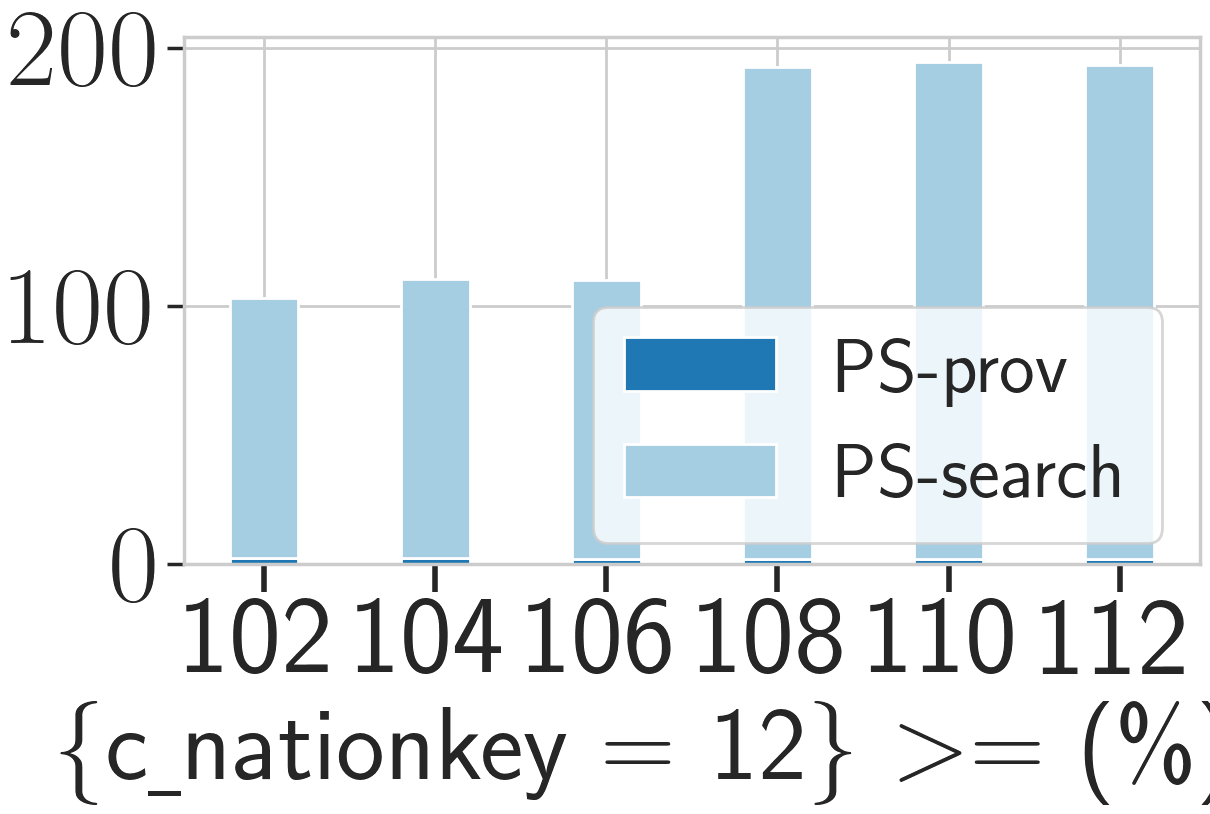
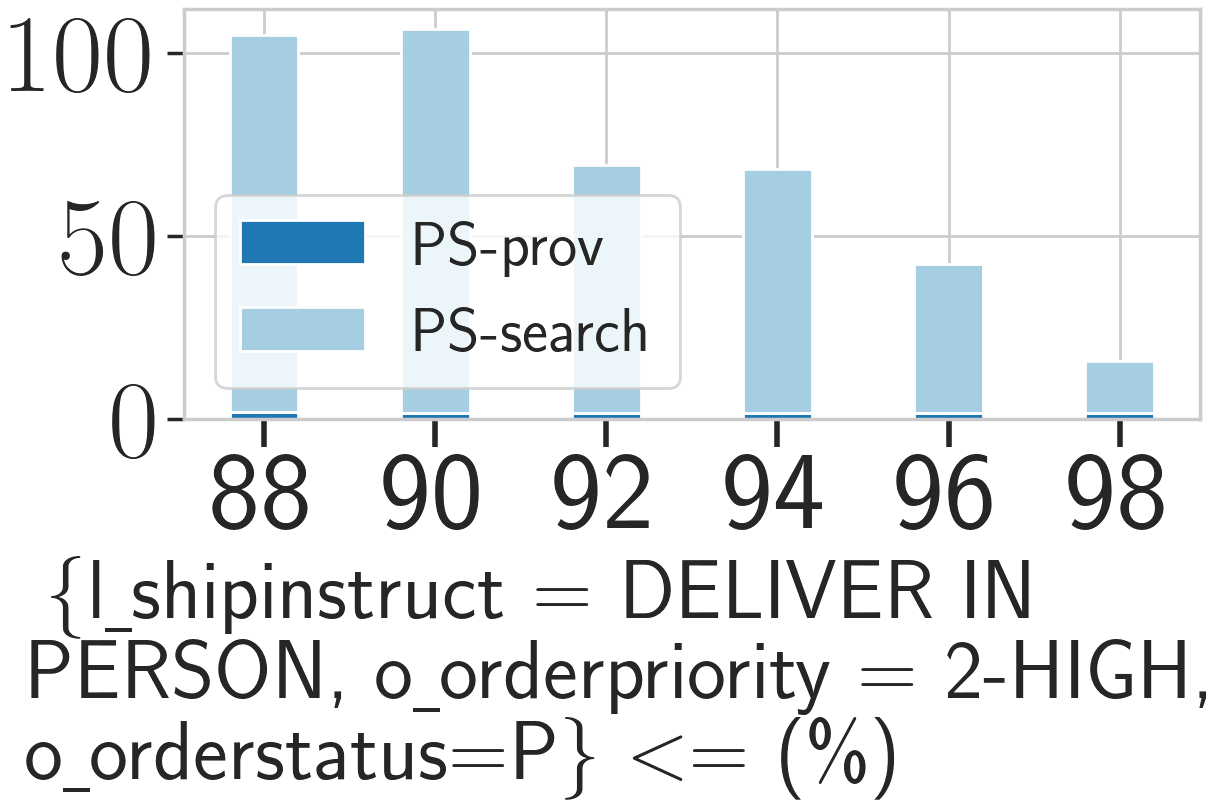
tpch 100M constraint change 13 refine

Changed region(s): [[0.0, 0.0, 1.0, 0.9889], [0.5504, 0.2781, 0.6116, 0.309]]

diff --git a/Experiment/TPCH/100M/constraint_change/q3_refine/fig.py b/Experiment/TPCH/100M/constraint_change/q3_refine/fig.py
@@ -58,7 +58,7 @@ def run(query, size, constraint):
             execution_timebl1.append(0)
             execution_timebl2.append(0)
     # x_list = [19941230, 19950115, 19950130, 19950215, 19950230, 19950315, 19950330, 19950415]
-    x_list = [102, 104, 106, 108, 110, 112]
+    x_list = [88, 90, 92, 94, 96, 98]
 
     print(x_list, execution_timeps1, execution_timeps2)
 
@@ -84,10 +84,12 @@ def run(query, size, constraint):
     plt.xticks(np.arange(0, 6), x_list, rotation=0, fontsize=80)
     plt.yticks(fontsize=80, weight='bold')
 
-    plt.xlabel(r'\{c\underline{ }nationkey = 12\} $>=$ (\%)',
-               fontsize=75, weight='bold').set_position((0.46, -0.1))
+    plt.xlabel(r'\{l\underline{ }shipinstruct = DELIVER IN \\'
+               r'PERSON, o\underline{ }orderpriority = 2-HIGH,\\'
+               r'o\underline{ }orderstatus=P\} $<=$ (\%)',
+               fontsize=60, weight='bold').set_position((0.43, -0.1))
     # plt.ylabel('Running time (s)')
-    plt.legend(loc='upper right', bbox_to_anchor=(1.0, 0.56), fontsize=55)
+    plt.legend(loc='lower left', bbox_to_anchor=(0, 0), fontsize=45)
     # plt.legend(loc="best", fontsize=55)
     plt.tight_layout()
     fig_path = "constraint_change_q" + str(query) + "_" + size + "_" + constraint + ".png"
